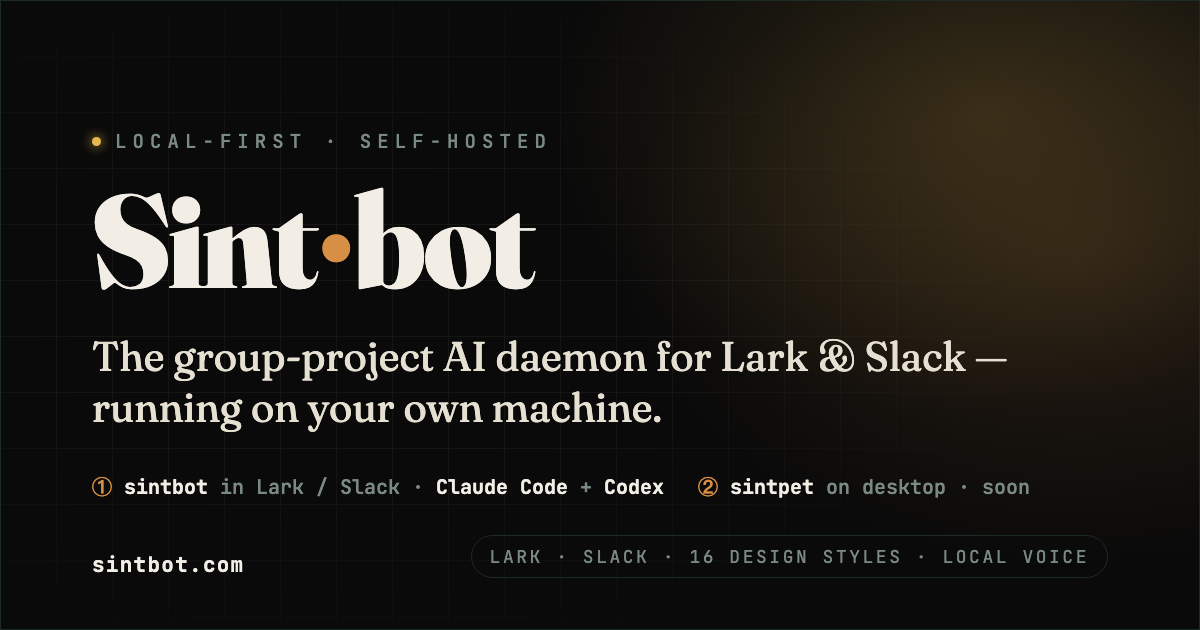
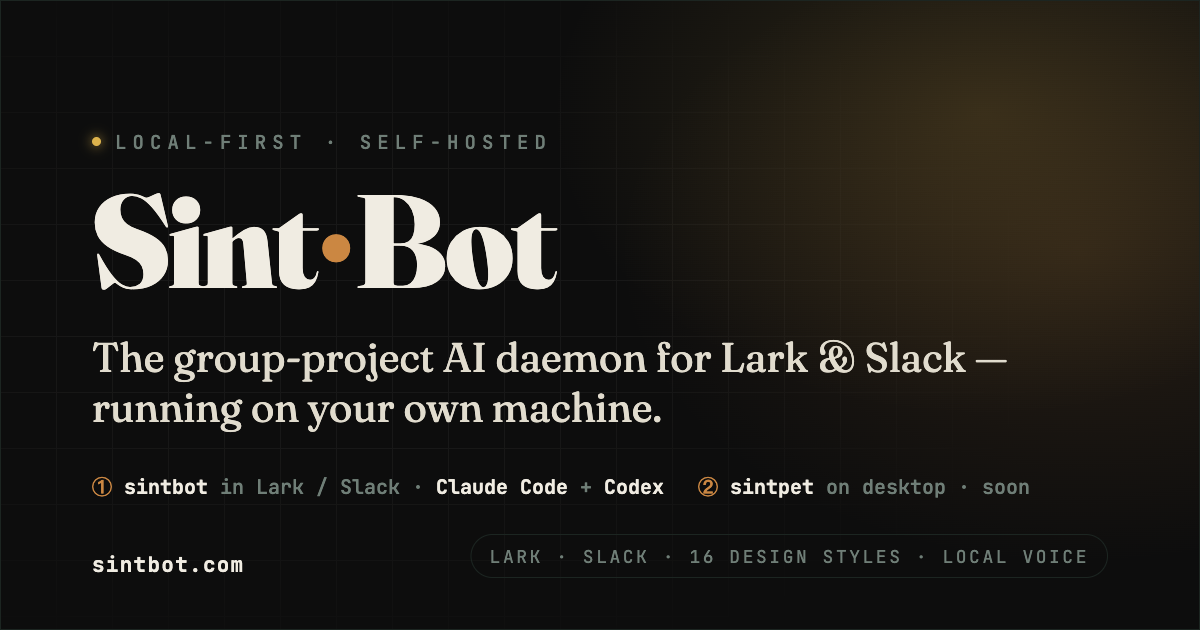
site: 字标也改成大写 B —— 品牌统一收尾(用户拍板)
上一轮统一 SintBot 时漏掉了字标那一类:品牌名被标签拆开写着,字面替换匹配不到。
是交叉比对两个判据才发现的 —— 遍历文本节点是 0 处,而拼接后的可见文本是 2 处。
这类漏网只有用不同判据互相验证才看得见,单靠 grep 会一直以为改干净了。

五处载体全部跟上:
- 导航字标 `Sint<i class="nav__trace"></i>bot` —— 中间那根是装饰走线,不是字母
- 控制台示意图里的 `Sint<b>bot</b>`
- `assets/og-banner.source.html` 的 `Sint·bot`,并**重渲了 og-banner.png**
  (1200×630 精确视口,字体等 document.fonts.ready 后再截 —— 分享到群里和推特的就是它)
- `favicon.svg` 的 aria-label(图形本身是 S 形走线,无字母,只有可访问名要改)
- `logo.svg` 的 aria-label 与 <title>(该文件站上已不引用,顺手不留旧名)

⚠ 守护进程的控制台顶栏同批改了(另一个仓库):首页那张示意图画的就是它,
不一起改就是站上画的和真机不一样。

diff --git a/index.html b/index.html
@@ -111,7 +111,7 @@
     <!-- Top nav -->
     <header class="nav" data-reveal>
       <a class="nav__brand" href="#top" aria-label="SintBot home">
-        <span class="nav__word">Sint<i class="nav__trace" aria-hidden="true"></i>bot</span>
+        <span class="nav__word">Sint<i class="nav__trace" aria-hidden="true"></i>Bot</span>
       </a>
       <nav class="nav__menu" aria-label="primary">
         <a href="#platforms" data-i18n="nav.platforms">Platforms</a>
@@ -727,7 +727,7 @@
           <div class="con" data-reveal aria-label="Console mock">
             <div class="con__bar">
               <span class="con__dots"><i></i><i></i><i></i></span>
-              <span class="con__brand">Sint<b>bot</b></span>
+              <span class="con__brand">Sint<b>Bot</b></span>
               <ul class="con__tabs">
                 <li class="is-active" data-i18n="con.tab.overview">Overview</li>
                 <li data-i18n="con.tab.groups">Groups · Projects</li>

diff --git a/assets/og-banner.source.html b/assets/og-banner.source.html
@@ -78,7 +78,7 @@
   <div class="frame"></div>
   <div class="wrap">
     <div class="eyebrow"><span class="dot"></span> Local-first · Self-hosted</div>
-    <div class="word">Sint<span class="tie">·</span>bot</div>
+    <div class="word">Sint<span class="tie">·</span>Bot</div>
     <div class="tag">The group-project AI daemon for Lark &amp; Slack —<br>running on your own machine.</div>
     <div class="pillars">
       <div>① <b>sintbot</b> <span>in Lark / Slack ·</span> <b>Claude Code</b> <span>+</span> <b>Codex</b></div>
